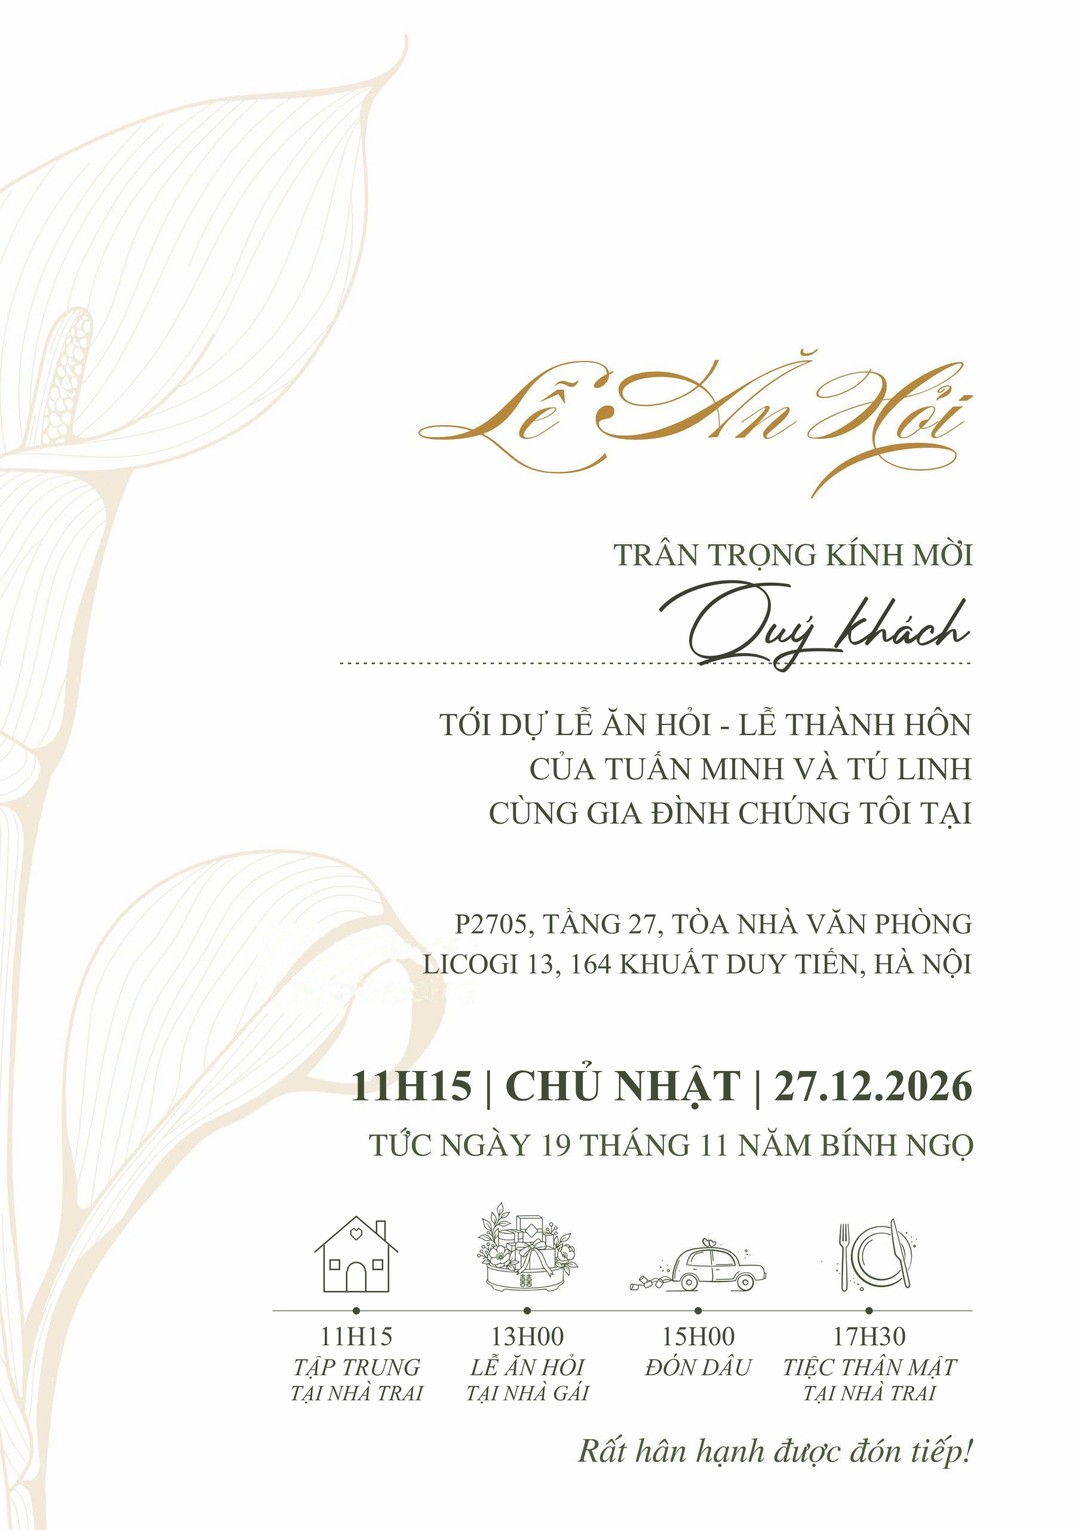
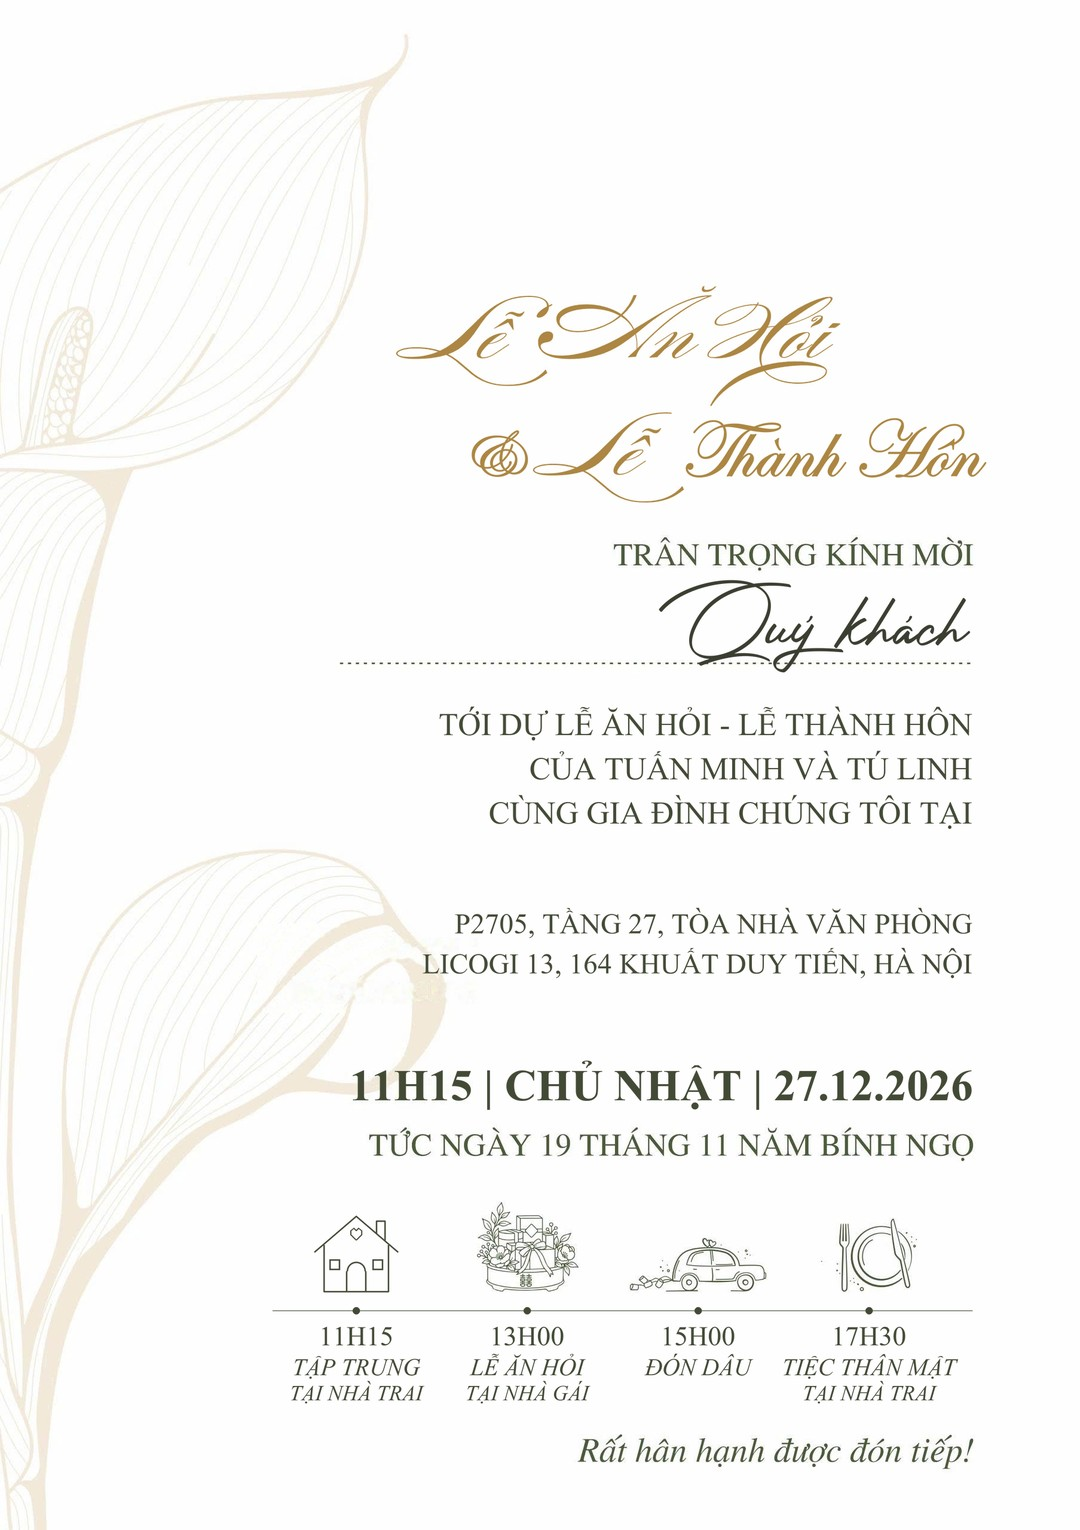
Thiệp ăn hỏi: tiêu đề hai dòng so le Lễ Ăn Hỏi & Lễ Thành Hôn

Changed region(s): [[0.3667, 0.1843, 0.9167, 0.3379]]

diff --git a/cong-cu/tao_thiep_phu.py b/cong-cu/tao_thiep_phu.py
@@ -14,7 +14,7 @@ import sys
 from pathlib import Path
 
 import numpy as np
-from PIL import Image, ImageDraw, ImageFont
+from PIL import Image, ImageDraw, ImageFont, ImageOps
 
 GOC = Path(__file__).resolve().parent.parent
 RONG = 1080                                  # bề ngang ảnh xuất ra
@@ -262,6 +262,51 @@ ve = ImageDraw.Draw(lop_moi[MAU_XANH])
 ve.line([((TAM[0] - 140) * K, Y_KE * K), (LE_PHAI * K, Y_KE * K)], fill=170, width=round(1.6 * K))
 for x in TAM:
     ve.ellipse([(x - 6) * K, (Y_KE - 6) * K, (x + 6) * K, (Y_KE + 6) * K], fill=255)
+
+# f) Tiêu đề hai dòng so le: "Lễ Ăn Hỏi" (giữ nguyên chữ gốc, thu nhỏ một chút, lệch trái) và "& Lễ Thành Hôn"
+#    (lệch phải). Chữ "Lễ" dòng dưới cắt từ chính chữ gốc; "&", "Thành Hôn" viết bằng Edwardian Script ITC (có sẵn
+#    trong Windows, kiểu chữ uốn lượn gần với chữ gốc nhất), cùng màu vàng, cỡ khớp chiều cao chữ thường.
+EDWARDIAN = "C:/Windows/Fonts/ITCEDSCR.TTF"
+MAU_TIEU_DE = (172, 134, 66)
+TL_TD = .8                                   # thu nhỏ tiêu đề để hai dòng vừa khoảng trống phía trên lời mời
+DAY_GOC, XH_GOC = 735, 45                    # chân chữ và chiều cao chữ thường (chữ n) của tiêu đề gốc
+td_goc = an_hoi.crop((690, 570, 1645, 845))
+le = an_hoi.crop((690, 570, 1018, 845))      # chữ "Lễ" (nét đuôi chữ L kéo dài tới 1015)
+le_a = np.asarray(le).copy()
+le_a[:735 - 570, 990 - 690:] = 254           # bỏ nét xoắn đầu chữ Ă lọt vào khung
+le = Image.fromarray(le_a)
+an_hoi.paste(Image.new("RGB", (1645 - 690, 845 - 570), nen_trang), (690, 570))
+
+
+def thu(im):
+    return im.resize((round(im.width * TL_TD), round(im.height * TL_TD)), Image.LANCZOS)
+
+
+def mat_na_vang(im):
+    """Độ đậm của nét vàng trên nền trắng: nét đậm = 255, nền = 0 (để dán chồng mà không xoá chữ bên cạnh)."""
+    sang = np.asarray(im.convert("L")).astype(float)
+    return Image.fromarray(np.clip((250 - sang) * 255 / (250 - 150), 0, 255).astype(np.uint8))
+
+
+td_goc, le = thu(td_goc), thu(le)
+Y1, Y2 = 600, 795                            # chân chữ dòng 1 và dòng 2
+X1 = 655                                     # mép trái dòng 1 (hoa rum ở bên trái tới khoảng 620)
+an_hoi.paste(Image.new("RGB", td_goc.size, MAU_TIEU_DE), (X1, round(Y1 - (DAY_GOC - 570) * TL_TD)), mat_na_vang(td_goc))
+f_ed = ImageFont.truetype(EDWARDIAN, 200)
+xh = -f_ed.getbbox("n", anchor="ls")[1]
+co_ed = 200 * XH_GOC * TL_TD / xh
+f_ed = phong(EDWARDIAN, co_ed)
+f_va = phong(EDWARDIAN, co_ed * .85)
+lop_moi[MAU_TIEU_DE] = Image.new("L", (an_hoi.width * K, an_hoi.height * K), 0)
+chu2 = "Thành Hôn"
+r_chu2 = f_ed.getlength(chu2) / K
+x_chu2 = LE_PHAI + 10 - r_chu2
+ImageDraw.Draw(lop_moi[MAU_TIEU_DE]).text((x_chu2 * K, Y2 * K), chu2, font=f_ed, fill=255, anchor="ls",
+                                         stroke_width=round(.9 * K), stroke_fill=255)   # Edwardian nét mảnh hơn chữ gốc: tô dày thêm
+x_le = x_chu2 + 8 - le.width
+an_hoi.paste(Image.new("RGB", le.size, MAU_TIEU_DE), (round(x_le), round(Y2 - (DAY_GOC - 570) * TL_TD)), mat_na_vang(le))
+ImageDraw.Draw(lop_moi[MAU_TIEU_DE]).text(((x_le - 14) * K, Y2 * K), "&", font=f_va, fill=255, anchor="rs",
+                                         stroke_width=round(.9 * K), stroke_fill=255)
 
 for mau, lop_m in lop_moi.items():
     an_hoi = Image.composite(Image.new("RGB", an_hoi.size, mau), an_hoi, lop_m.resize(an_hoi.size, Image.LANCZOS))
